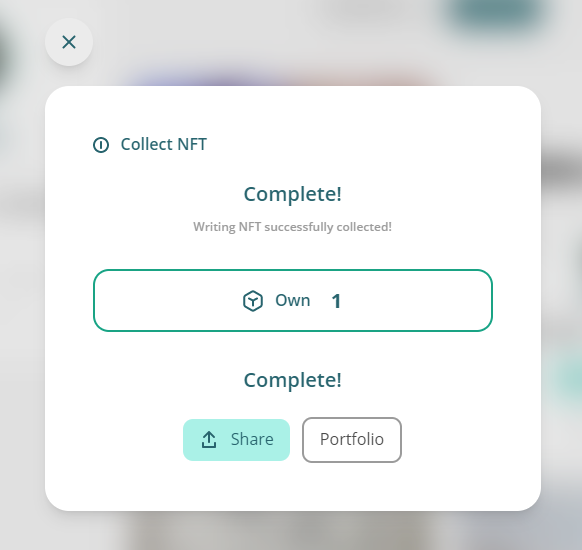
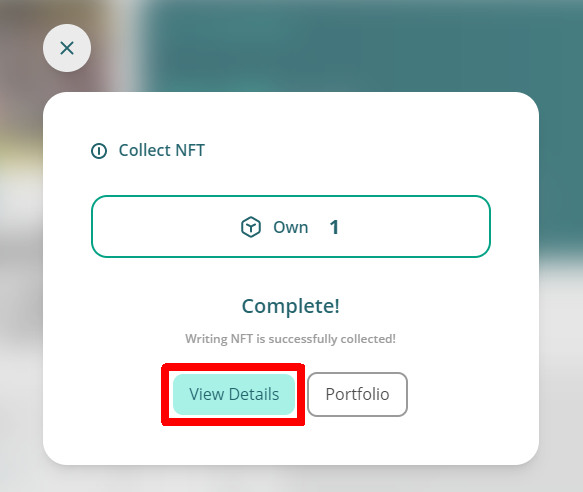
GitBook: [#4233] Collect Writing NFT

diff --git a/general-guides/writing-nft/collect-writing-nft.md b/general-guides/writing-nft/collect-writing-nft.md
@@ -4,11 +4,11 @@ description: How to collect Writing NFT?
 
 # Collect Writing NFT
 
-You can pay with LikeCoin to buy Writing NFT, or you can directly swipe your credit card to buy Writing NFT. To buy LikeCoin, please refer to the How to buy LikeCoin chapter.
+You can pay with LikeCoin to buy Writing NFT, or you can directly swipe your credit card to buy Writing NFT. To buy LikeCoin, please refer to the [How to buy LikeCoin](../trade/buy-likecoin.md) chapter.
 
 Before purchasing, you need to register and log in to [Keplr Browser Extension](../wallet/keplr/), [Cosmostation Browser Extension](../wallet/cosmostation/), [Cosmostation app](../wallet/cosmostation-app/cosmostation-app-deposit-and-send-likecoin.md) or [Liker Land app](../../user-guide/liker-land/download.md). Collecting NFT on Desktop or mobile are very easy.
 
-If you do not have a crypto wallet, you can purchase Writing NFT with credit card payment first, and receive the purchased Writing NFT after registering the wallet.Collect Writing NFT on desktop computer.
+If you do not have a crypto wallet, you can purchase Writing NFT with credit card payment first, and receive the purchased Writing NFT after registering the wallet.
 
 ## Start Collecting
 
@@ -60,7 +60,7 @@ You will receive another email saying that the NFT has been sent to your wallet.
 
 ### Step 3: Check your NFT Collection
 
-Go to "[My Dashboard](https://liker.land/dashboard)" (https://liker.land/\[wallet address]) to view the NFT that you've collected.
+Go to "[My Dashboard](https://liker.land/dashboard)" to view the NFT that you've collected.
 
 <figure><img src="../../.gitbook/assets/Buy NFT 12.png" alt=""><figcaption></figcaption></figure>
 
@@ -134,13 +134,15 @@ Click "Pay by LIKE", a signature request shows up on your phone. Click "Approve"
 
 ### Step 3: Check your NFT Collection
 
-Complete! page appears, the Writing NFT is successfully collected.
+Complete! page appears, the Writing NFT is successfully collected. Click "View Details" to view the details of the NFT purchased.
 
 <figure><img src="../../.gitbook/assets/Buy NFT 15.png" alt=""><figcaption></figcaption></figure>
 
-Go to "[My Dashboard](https://liker.land/dashboard)" (https://liker.land/\[wallet address]) to view the NFT that you've collected.
+* Writing NFT ID: Each Writing NFT ID is unique.
+* View Content: View Writing NFT content.&#x20;
+* Chain Data: Show the creation and transfer process of the Writing NFT.
 
-<figure><img src="../../.gitbook/assets/Buy NFT 12.png" alt=""><figcaption></figcaption></figure>
+<figure><img src="../../.gitbook/assets/Buy NFT 19.png" alt=""><figcaption></figcaption></figure>
 
 ## **Already own a crypto wallet and collect Writing NFT on Mobile**
 
